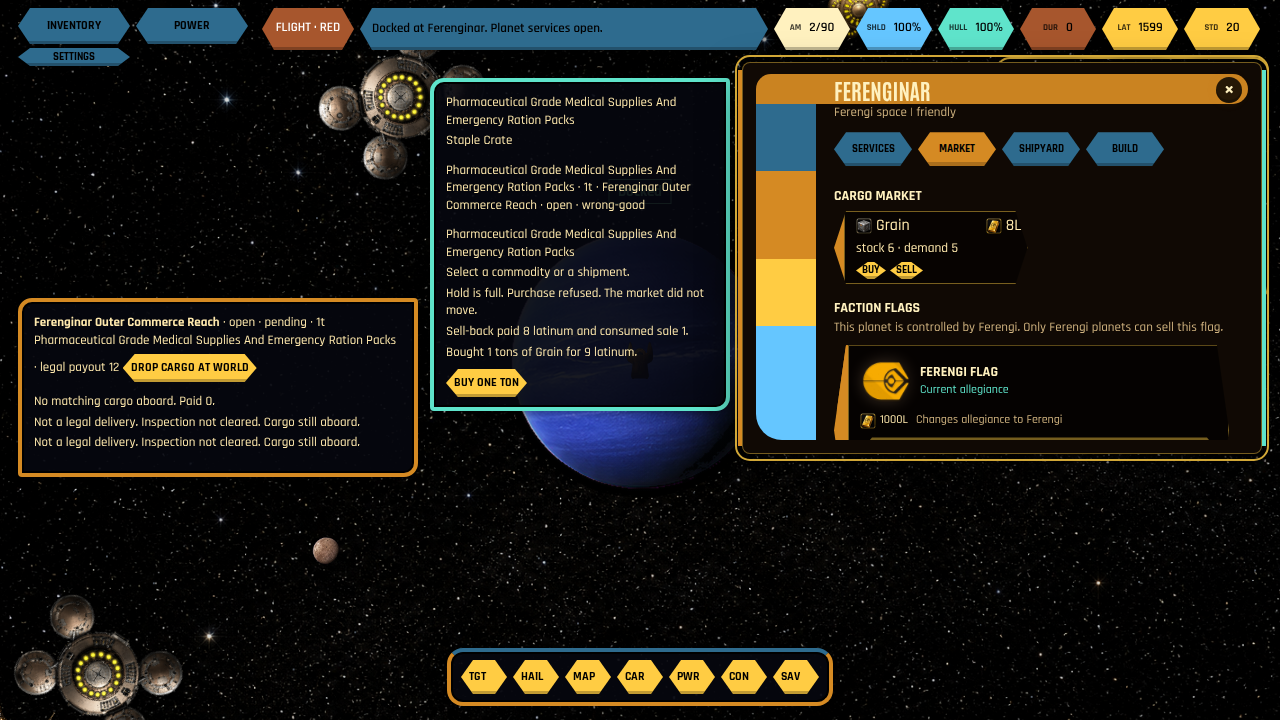
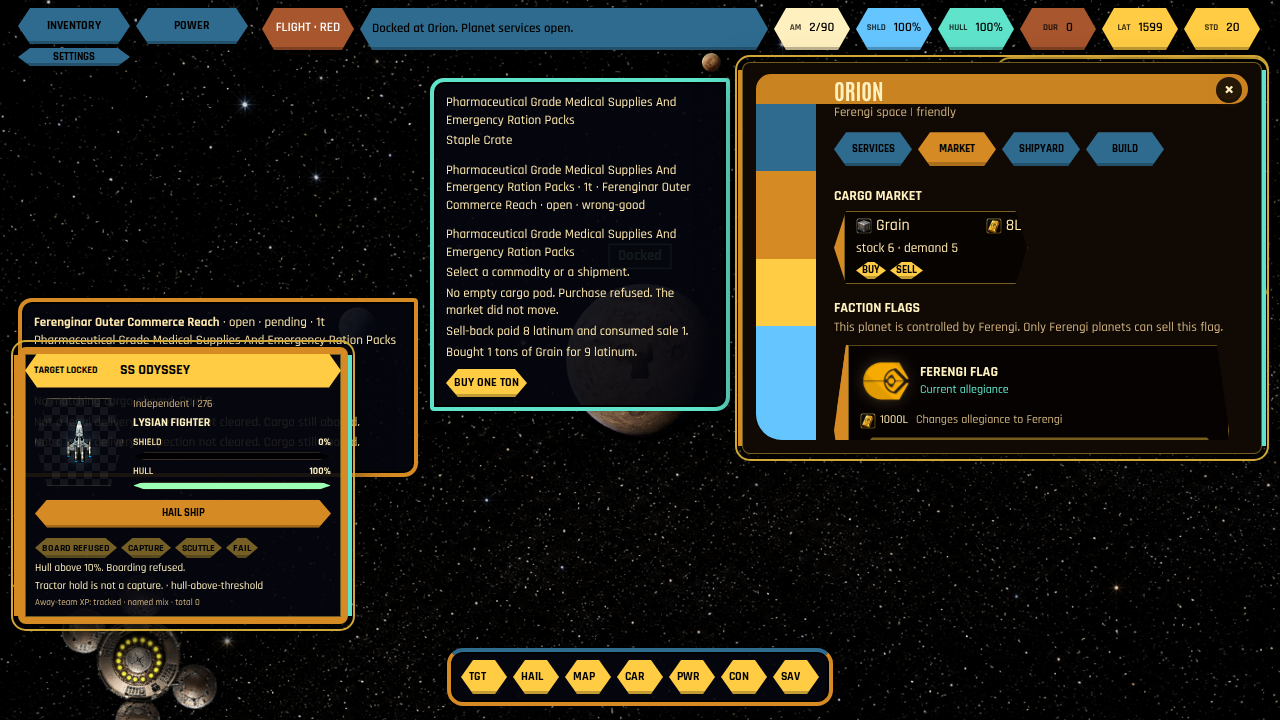
Show a log line for every refused book or shop trade
Refusals name the reason and stay out of reports and FLASH. Mixed book/shop trips longer than stockCap still net at most zero, and the after shot shows the long names plus that refusal line.

diff --git a/src/phase8-markets.js b/src/phase8-markets.js
@@ -590,6 +590,20 @@ export function mapServiceRefusalToKind(message) {
   };
 }
 
+function withRefusalLine(result, sayable) {
+  const line = String(sayable || result?.sayable || 'Trade refused. The market did not move.');
+  return {
+    ...result,
+    ok: false,
+    allowed: false,
+    paid: 0,
+    standingDelta: 0,
+    sayable: line,
+    logLine: line,
+    logBand: null,
+  };
+}
+
 function dealResult({ allowed, kind, sayable, price, market, extras = {} }) {
   const result = {
     allowed: allowed === true,
@@ -981,36 +995,36 @@ export function applyShopBuy(book, input = {}, injected = null) {
   const store = book || createMarketBook();
   const market = findMarket(store, input);
   const deal = evaluateCargoDeal(store, input, injected);
-  if (!deal.allowed) return { ok: false, ...deal, standingDelta: 0, paid: 0 };
+  if (!deal.allowed) return withRefusalLine({ ...deal, standingDelta: 0, paid: 0 }, deal.sayable);
   const spec = goodSpec(store, market?.good, injected);
   if (!market || market.stock - 1 < spec.floor) {
-    const empty = dealResult({
+    const empty = withRefusalLine(dealResult({
       allowed: false,
       kind: market?.restriction || 'seller_rule',
-      sayable: `No ${market?.good || 'cargo'} stock at ${market?.locationName || 'this port'}.`,
+      sayable: 'Buy refused. Stock is at the floor. The market did not move.',
       price: deal.price,
       market,
-    });
+    }), 'Buy refused. Stock is at the floor. The market did not move.');
     store.lastRefuse = empty;
-    return { ok: false, ...empty, standingDelta: 0, paid: 0 };
+    return empty;
   }
   const quote = postMovePrice(market, 'buy', injected);
   const credits = asInt(input.credits, quote);
   if (credits < quote) {
-    return {
-      ok: false,
-      allowed: false,
+    return withRefusalLine({
       kind: deal.kind,
       reason: 'funds',
-      sayable: `Need ${quote} latinum for ${market.good}. A higher standing is not money.`,
       price: quote,
-      paid: 0,
-      standingDelta: 0,
-    };
+      market,
+    }, `Need ${quote} latinum for ${market.good}. A higher standing is not money.`);
   }
   const step = settleMarketTon(market, 'buy', spec, injected);
   if (!step.ok) {
-    return { ok: false, allowed: false, reason: step.reason, price: market.price, paid: 0, standingDelta: 0, market };
+    return withRefusalLine({
+      reason: step.reason,
+      price: market.price,
+      market,
+    }, 'Buy refused. Stock is at the floor. The market did not move.');
   }
   const shop = recordShopTrade(store, { good: market.good, locationId: market.locationId, direction: 'buy' });
   return {
@@ -1033,13 +1047,13 @@ export function applyShopSell(book, input = {}, injected = null) {
   const store = book || createMarketBook();
   const market = findMarket(store, input);
   if (!market) {
-    return { ok: false, allowed: false, reason: 'missing-market', standingDelta: 0, paid: 0 };
+    return withRefusalLine({ reason: 'missing-market' }, 'No market for this good. Sell refused. The market did not move.');
   }
   const deal = evaluateCargoDeal(store, { ...input, marketId: market.marketId }, injected);
   if (!deal.allowed && deal.kind !== 'premium' && deal.kind !== 'open' && deal.kind !== 'license') {
-    return { ok: false, ...deal, standingDelta: 0, paid: 0 };
+    return withRefusalLine({ ...deal, standingDelta: 0, paid: 0 }, deal.sayable);
   }
-  if (!deal.allowed) return { ok: false, ...deal, standingDelta: 0, paid: 0 };
+  if (!deal.allowed) return withRefusalLine({ ...deal, standingDelta: 0, paid: 0 }, deal.sayable);
   const spec = goodSpec(store, market.good, injected);
   const before = { stock: market.stock, demand: market.demand, price: market.price };
   const step = settleMarketTon(market, 'sell', spec, injected);
@@ -1047,21 +1061,19 @@ export function applyShopSell(book, input = {}, injected = null) {
     market.stock = before.stock;
     market.demand = before.demand;
     market.price = before.price;
-    return {
-      ok: false,
-      allowed: false,
+    const line = step.reason === 'demand-floor'
+      ? 'Sell at the demand floor paid 0. The market did not move.'
+      : step.reason === 'stock-cap'
+        ? 'Sell refused. Stock would pass the cap. The market did not move.'
+        : 'Sell refused. The market did not move.';
+    return withRefusalLine({
       kind: deal.kind,
       reason: step.reason,
       price: 0,
-      paid: 0,
       stock: market.stock,
       demand: market.demand,
-      standingDelta: 0,
-      sayable: step.reason === 'demand-floor'
-        ? `No demand for ${market.good} at ${market.locationName || 'this port'}.`
-        : `No room for ${market.good} stock at ${market.locationName || 'this port'}.`,
       market,
-    };
+    }, line);
   }
   const shop = recordShopTrade(store, { good: market.good, locationId: market.locationId, direction: 'sell' });
   return {

diff --git a/src/commodity-shipment.js b/src/commodity-shipment.js
@@ -448,7 +448,8 @@ export function dominionTradeAllowed(context = {}) {
 }
 
 function refuseTrade(book, reason, notice) {
-  pushNotice(book, notice || reason);
+  const line = String(notice || reason || 'Trade refused. The market did not move.');
+  pushNotice(book, line);
   return {
     ok: false,
     paid: 0,
@@ -456,6 +457,7 @@ function refuseTrade(book, reason, notice) {
     book,
     latinumDelta: 0,
     logBand: null,
+    logLine: line,
     cultureFire: false,
     firingSolution: false,
     engagement_authorized: false,
@@ -472,16 +474,19 @@ export function buyCommodityLot(book, input = {}) {
   const tons = Math.max(1, asInt(input.tons, 1));
   const pods = Array.isArray(input.pods) ? input.pods : [];
   const cargoCap = asInt(input.cargoCap, 20);
-  if (!findEmptySlot(pods) || cargoUsed(pods) + tons > cargoCap) {
+  if (cargoUsed(pods) + tons > cargoCap) {
     return refuseTrade(store, 'hold-full', 'Hold is full. Purchase refused. The market did not move.');
+  }
+  if (!findEmptySlot(pods)) {
+    return refuseTrade(store, 'no-pod-slot', 'No empty cargo pod. Purchase refused. The market did not move.');
   }
   const spec = input.spec || goodSpec(input.marketBook, market.good, null);
   const inject = settleInject(input.config);
   const quote = settleMarketTons({ ...market }, 'buy', tons, spec, inject);
   if (!quote.ok) {
     return refuseTrade(store, quote.reason, quote.reason === 'stock-floor'
-      ? 'Buy refused. Stock is at the floor.'
-      : 'Buy refused.');
+      ? 'Buy refused. Stock is at the floor. The market did not move.'
+      : 'Buy refused. The market did not move.');
   }
   if (asInt(input.credits, quote.paid) < quote.paid) {
     return refuseTrade(store, 'funds', 'Not enough latinum. The market did not move.');
@@ -499,7 +504,7 @@ export function buyCommodityLot(book, input = {}) {
     market.stock = before.stock;
     market.demand = before.demand;
     market.price = before.price;
-    return refuseTrade(store, 'hold-full', 'Hold is full. Purchase refused. The market did not move.');
+    return refuseTrade(store, 'no-pod-slot', 'No empty cargo pod. Purchase refused. The market did not move.');
   }
   const saleId = issueSaleId(store);
   const lotId = `lot:${saleId}`;
@@ -562,7 +567,7 @@ export function sellBackBookLot(book, input = {}) {
   if (!sale || sale.soldByBook !== true) {
     if (key) rememberConsumed(store, key);
     delete store.sales[key];
-    return refuseTrade(store, 'not-book-bought', 'Sell-back refused. Only a book-bought lot pays.');
+    return refuseTrade(store, 'not-book-bought', 'Sell-back paid 0. That sale row is not a book-bought lot.');
   }
   const pods = Array.isArray(input.pods) ? input.pods : [];
   const pod = pods.find((row) => podTaggedForSale(row, sale));
@@ -583,7 +588,9 @@ export function sellBackBookLot(book, input = {}) {
     market.price = before.price;
     const notice = settled.reason === 'demand-floor'
       ? 'Sell at the demand floor paid 0. The market did not move.'
-      : 'Sell refused. The market did not move.';
+      : settled.reason === 'stock-cap'
+        ? 'Sell refused. Stock would pass the cap. The market did not move.'
+        : 'Sell refused. The market did not move.';
     return refuseTrade(store, settled.reason, notice);
   }
   pod.tons = asInt(pod.tons, 0) - asInt(sale.tons, 0);

diff --git a/src/main.js b/src/main.js
@@ -15775,7 +15775,7 @@ function buyMarketGood(slot = 0) {
       priceCap: COMMODITY_SHIPMENT_CONFIG.priceCap,
     });
     if (!bought.allowed) {
-      setLog(bought.sayable || `Cannot buy ${offer.goods} here.`);
+      setLog(bought.logLine || bought.sayable || `Cannot buy ${offer.goods} here.`);
       updateStats();
       return bought;
     }
@@ -15844,7 +15844,7 @@ function sellMarketGood(slot = 0) {
     });
     if (!sale.allowed) {
       addCargoToPods(market.good, 1, undefined, 0);
-      setLog(sale.sayable || `Local seller will not buy ${market.good}.`);
+      setLog(sale.logLine || sale.sayable || `Local seller will not buy ${market.good}.`);
       updateStats();
       return sale;
     }
@@ -26083,6 +26083,11 @@ function createCommodityShipmentProbeApi() {
   const standingNow = () => JSON.parse(JSON.stringify(state.factionStanding || {}));
   return {
     lock: () => COMMODITY_SHIPMENT_LOCKED_FROM_REMASTERED === true,
+    log: (line) => {
+      const text = String(line || '').trim();
+      if (text) setLog(text);
+      return state.log || '';
+    },
     config: () => ({ ...COMMODITY_SHIPMENT_CONFIG }),
     open: () => {
       state.commodityShipmentOpen = true;
@@ -26233,7 +26238,7 @@ function createCommodityShipmentProbeApi() {
         }
       }
       recalcCargoFromPods();
-      buyCommodityLot(ensureCommodityShipmentBook(), {
+      const refused = buyCommodityLot(ensureCommodityShipmentBook(), {
         market,
         marketBook: ensureMarketBook(),
         pods: state.cargoArray,
@@ -26242,6 +26247,7 @@ function createCommodityShipmentProbeApi() {
         tons: 1,
         config: COMMODITY_SHIPMENT_CONFIG,
       });
+      setLog(refused.logLine || 'Hold is full. Purchase refused. The market did not move.');
       refreshCommodityShipment();
       state.commodityShipmentOpen = true;
       renderCommodityShipment();
